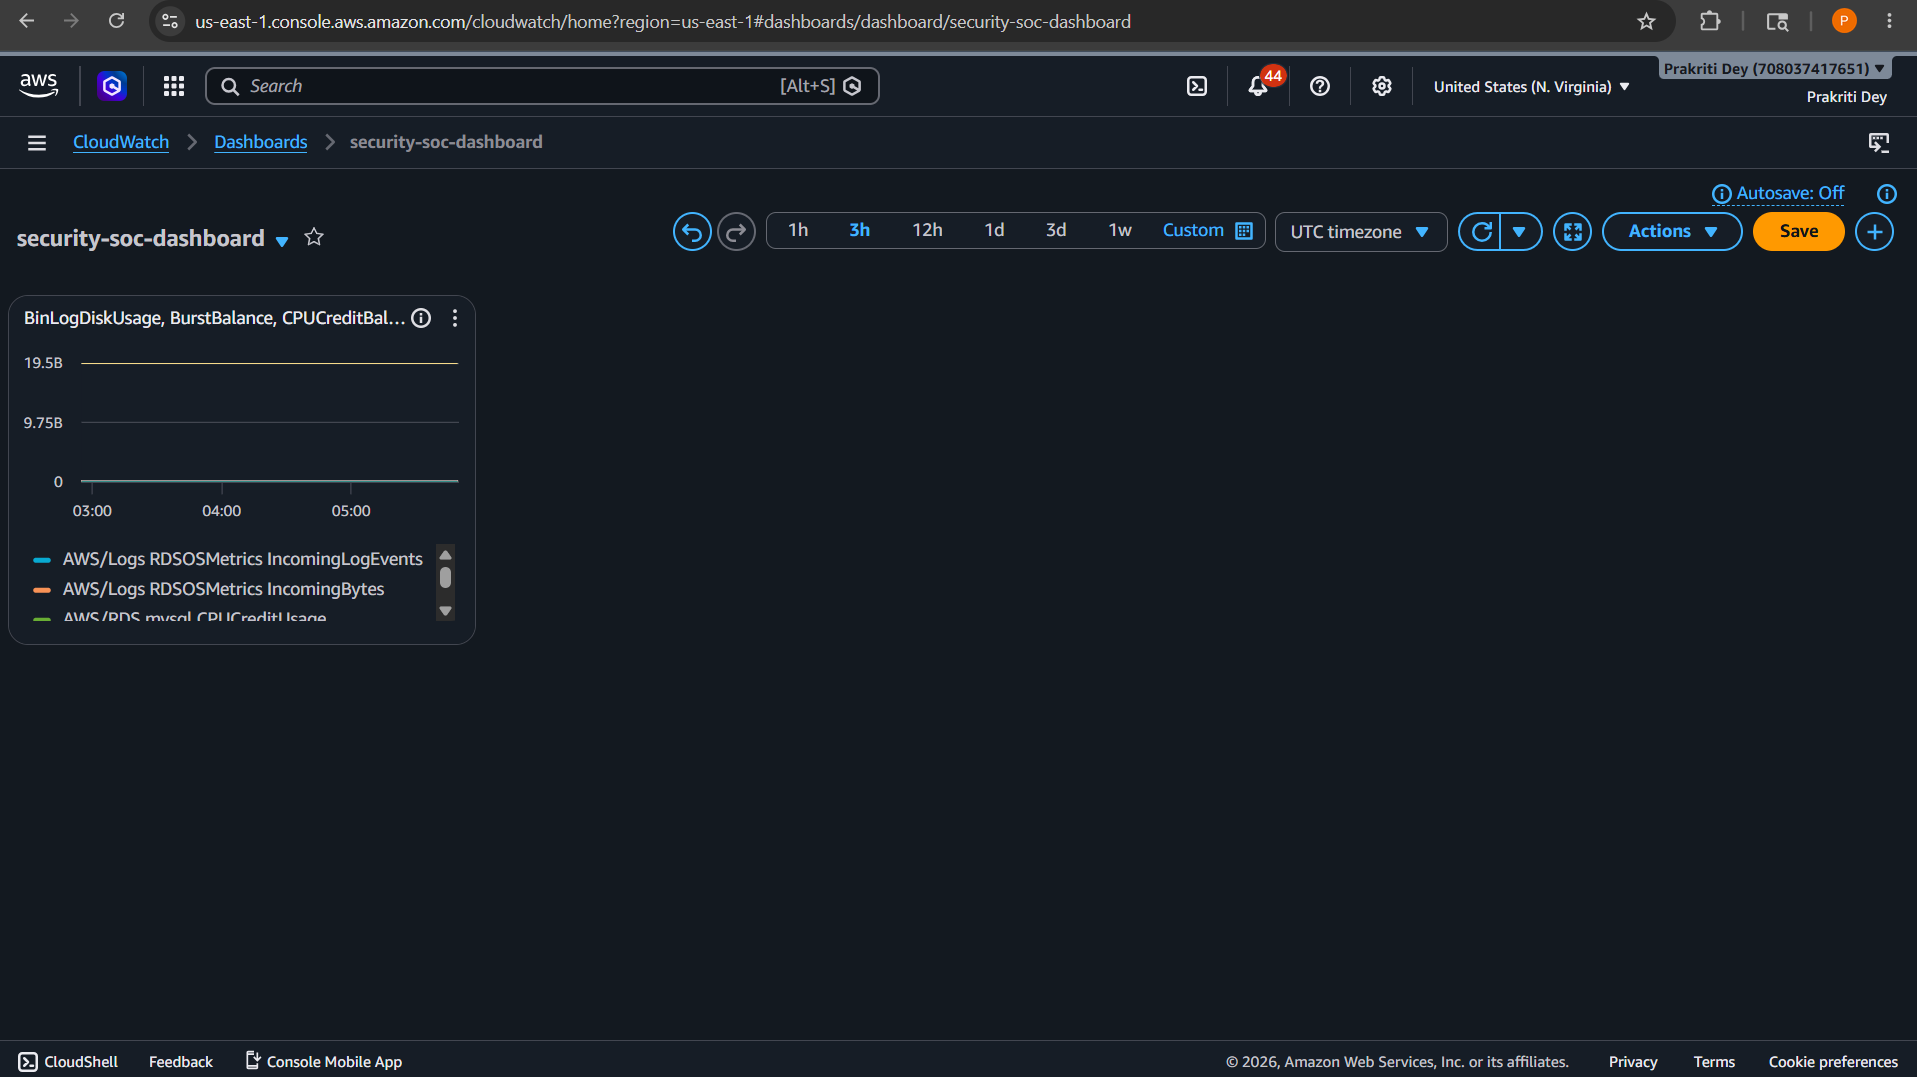
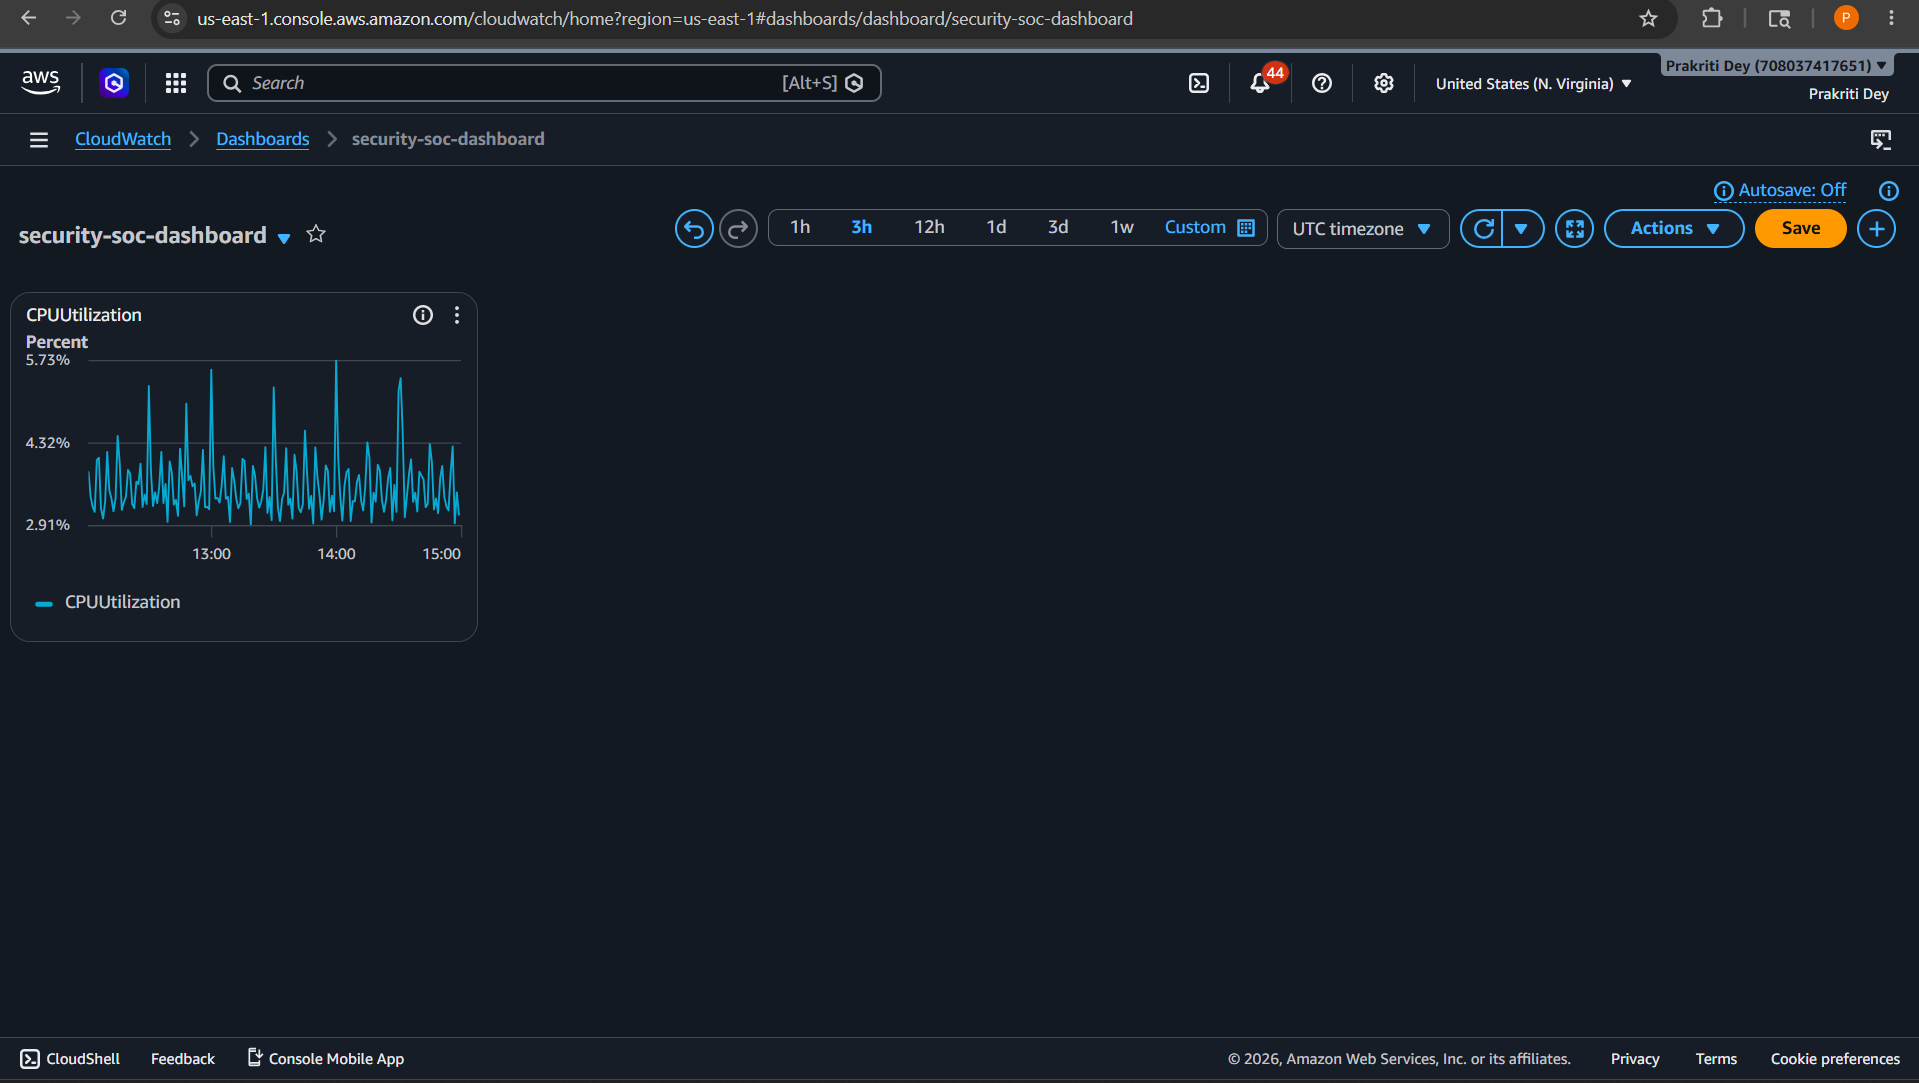
Modified

diff --git a/README.md b/README.md
@@ -1,2 +1,102 @@
-# cybersecurity-compliance-project
-Cloud security architecture with ISO 27001 and NIST compliance
+# Cybersecurity & Compliance Implementation on AWS
+
+## Project Overview
+This project demonstrates the implementation of a secure cloud infrastructure on AWS following cybersecurity best practices and compliance standards such as ISO 27001 and the NIST Cybersecurity Framework.
+
+The project focuses on:
+- Identity and Access Management (IAM)
+- Network security and segmentation
+- Encryption and key management
+- Logging and monitoring
+- Incident response planning
+- Security compliance mapping
+- SOC dashboard monitoring
+
+---
+
+# Architecture Summary
+
+A secure 3-tier cloud architecture was designed using AWS services.
+
+## Network Layers
+- Public Web Tier
+- Private Application Tier
+- Private Database Tier
+
+## Security Controls
+- VPC isolation
+- Public and private subnets
+- Security Groups (virtual firewalls)
+- IAM least privilege access
+- KMS encryption
+- CloudTrail audit logging
+- VPC Flow Logs
+- CloudWatch monitoring dashboards
+
+---
+
+# AWS Services Used
+
+| Service | Purpose |
+|---|---|
+| Amazon VPC | Network isolation |
+| Security Groups | Firewall and traffic filtering |
+| IAM | Access control and least privilege |
+| AWS KMS | Encryption and key management |
+| Amazon S3 | Secure object storage |
+| Amazon RDS | Managed MySQL database |
+| CloudTrail | Audit logging |
+| CloudWatch | Monitoring and dashboards |
+| VPC Flow Logs | Network traffic logging |
+| SNS | Alert notifications |
+| EC2 | Web/Application server hosting |
+
+---
+
+# Project Features
+
+## IAM Least Privilege Mapping
+- IAM users and roles configured
+- Role-based access control implemented
+- Access review strategy documented
+
+## Network Security
+- 3-tier segmented architecture
+- Restricted communication between layers
+- Security groups enforce minimum required access
+
+## Encryption Strategy
+- Data at rest encrypted using AWS KMS
+- TLS/HTTPS designed for secure communication
+- Encrypted RDS storage and backups
+
+## Key Management
+- Customer-managed KMS key created
+- Automatic key rotation enabled
+- Access controlled through IAM policies
+
+## Logging & Monitoring
+- CloudTrail enabled for API auditing
+- VPC Flow Logs configured
+- CloudWatch dashboard for monitoring
+- SNS alerts for security events
+
+## Incident Response
+- Six-phase incident response lifecycle documented
+- Detection, containment, eradication, and recovery procedures included
+
+## Compliance Mapping
+- ISO 27001 control alignment
+- NIST Cybersecurity Framework mapping
+
+---
+
+# Repository Structure
+
+```text
+architecture/
+compliance/
+incident-response/
+infrastructure/
+soc-dashboards/
+threat-models/
